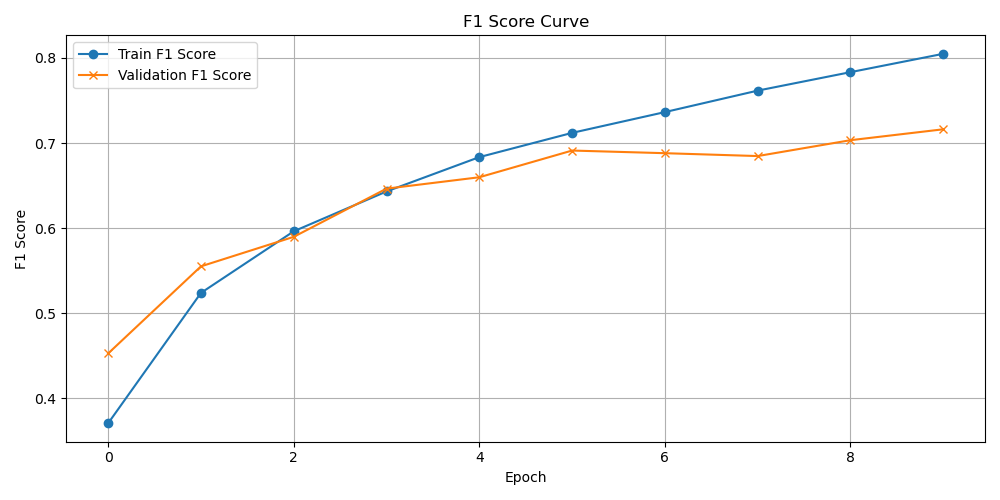
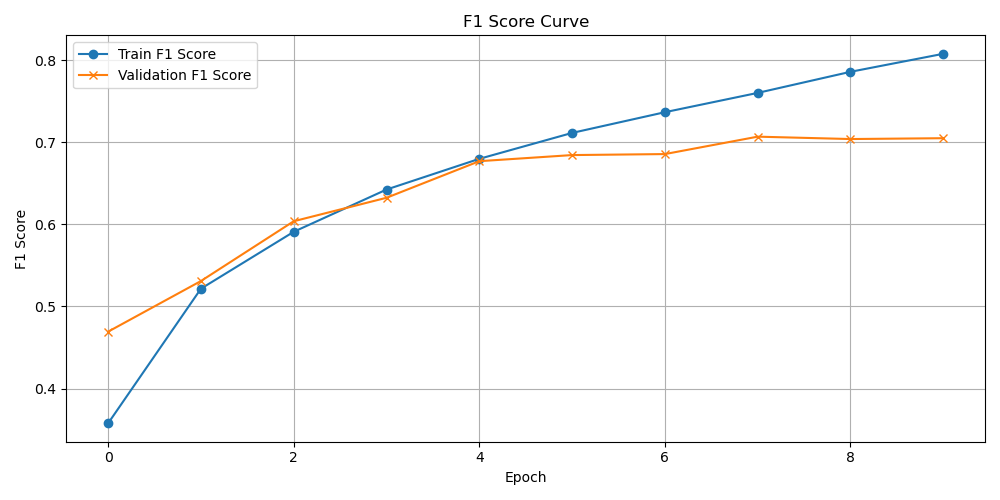
Refactor plots

diff --git a/cnn_image_recognition/main.py b/cnn_image_recognition/main.py
@@ -16,6 +16,8 @@ from torchviz import make_dot
 # Local imports
 from conv_net import ConvNet
 from sklearn.metrics import f1_score, accuracy_score, precision_score, recall_score
+import random
+import numpy as np
 
 # Ensure the checkpoints directory exists and split the path
 default_model_dir = './checkpoints'
@@ -27,6 +29,17 @@ PLOTS_ROOT_DIR = './plots'
 # Map the code name to the class name
 VALID_MODELS = {ConvNet.__name__ : "EffConvNet"}
 
+# Set random seed for reproducibility
+def set_seed(seed):
+	torch.manual_seed(seed)
+	torch.cuda.manual_seed_all(seed)
+	os.environ['PYTHONHASHSEED'] = str(seed)
+	random.seed(seed)
+	np.random.seed(seed)
+
+# Set a fixed seed value
+SEED = 42
+set_seed(SEED)
 
 def build_plot_destination_path(model, file_name):
 
@@ -79,87 +92,29 @@ def plot_curves(func):
 		model, epoch_number, train_losses, train_f1_scores, train_accuracies, train_precisions, train_recalls, \
 		val_losses, val_f1_scores, val_accuracies, val_precisions, val_recalls = func(*args, **kwargs)
 
+		# Refactored reusable method for plotting
+		def plot_metric_curve(metric_name, train_values, val_values=None, ylabel=None):
+			plt.figure(figsize=(10, 5))
+			plt.plot(epoch_number, train_values, label=f'Train {metric_name}', marker='o')
+			if val_values is not None:
+				plt.plot(epoch_number, val_values, label=f'Validation {metric_name}', marker='x')
+			plt.title(f"{metric_name} Curve")
+			plt.xlabel("Epoch")
+			plt.ylabel(ylabel or metric_name)
+			plt.legend()
+			plt.grid(True)
+			plt.tight_layout()
+			file_name = build_plot_destination_path(model, f'{metric_name.lower().replace(" ", "_")}_curve.png')
+			plt.savefig(file_name)
+			plt.close()
+
 		# Plot after training
-		plt.figure(figsize=(8, 5))
-		plt.plot(epoch_number, train_losses, label='Training Loss', marker='o')
-		plt.title("Learning Curve")
-		plt.xlabel("Epoch")
-		plt.ylabel("Loss")
-		plt.grid(True)
-		plt.legend()
-		plt.tight_layout()
-		file_name = build_plot_destination_path(model, 'learning_curve.png')
-		plt.savefig(file_name)
-		plt.close()
-
-		plt.figure(figsize=(10, 5))
-		plt.plot(epoch_number, train_losses, label='Train Loss', marker='o')
-		plt.plot(epoch_number, val_losses, label='Validation Loss', marker='x')
-		plt.title("Overfitting Plot")
-		plt.xlabel("Epoch")
-		plt.ylabel("Loss")
-		plt.legend()
-		plt.grid(True)
-		plt.tight_layout()
-		file_name = build_plot_destination_path(model, 'overfit_curve.png')
-		plt.savefig(file_name)
-		plt.close()
-
-		# Plot F1 scores
-		plt.figure(figsize=(10, 5))
-		plt.plot(epoch_number, train_f1_scores, label='Train F1 Score', marker='o')
-		plt.plot(epoch_number, val_f1_scores, label='Validation F1 Score', marker='x')
-		plt.title("F1 Score Curve")
-		plt.xlabel("Epoch")
-		plt.ylabel("F1 Score")
-		plt.legend()
-		plt.grid(True)
-		plt.tight_layout()
-		file_name = build_plot_destination_path(model, 'f1_score_curve.png')
-		plt.savefig(file_name)
-		plt.close()
-
-		# Plot accuracies
-		plt.figure(figsize=(10, 5))
-		plt.plot(epoch_number, train_accuracies, label='Train Accuracy', marker='o')
-		plt.plot(epoch_number, val_accuracies, label='Validation Accuracy', marker='x')
-		plt.title("Accuracy Curve")
-		plt.xlabel("Epoch")
-		plt.ylabel("Accuracy")
-		plt.legend()
-		plt.grid(True)
-		plt.tight_layout()
-		file_name = build_plot_destination_path(model, 'accuracy_curve.png')
-		plt.savefig(file_name)
-		plt.close()
-
-			# Plot precisions
-		plt.figure(figsize=(10, 5))
-		plt.plot(epoch_number, train_precisions, label='Train Precision', marker='o')
-		plt.plot(epoch_number, val_precisions, label='Validation Precision', marker='x')
-		plt.title("Precision Curve")
-		plt.xlabel("Epoch")
-		plt.ylabel("Precision")
-		plt.legend()
-		plt.grid(True)
-		plt.tight_layout()
-		file_name = build_plot_destination_path(model, 'precision_curve.png')
-		plt.savefig(file_name)
-		plt.close()
-
-		# Plot recalls
-		plt.figure(figsize=(10, 5))
-		plt.plot(epoch_number, train_recalls, label='Train Recall', marker='o')
-		plt.plot(epoch_number, val_recalls, label='Validation Recall', marker='x')
-		plt.title("Recall Curve")
-		plt.xlabel("Epoch")
-		plt.ylabel("Recall")
-		plt.legend()
-		plt.grid(True)
-		plt.tight_layout()
-		file_name = build_plot_destination_path(model, 'recall_curve.png')
-		plt.savefig(file_name)
-		plt.close()
+		plot_metric_curve("Learning", train_losses, ylabel="Loss")
+		plot_metric_curve("Overfitting", train_losses, val_losses, ylabel="Loss")
+		plot_metric_curve("F1 Score", train_f1_scores, val_f1_scores)
+		plot_metric_curve("Accuracy", train_accuracies, val_accuracies)
+		plot_metric_curve("Precision", train_precisions, val_precisions)
+		plot_metric_curve("Recall", train_recalls, val_recalls)
 
 		return model  # Return just the model, clean interface
 
